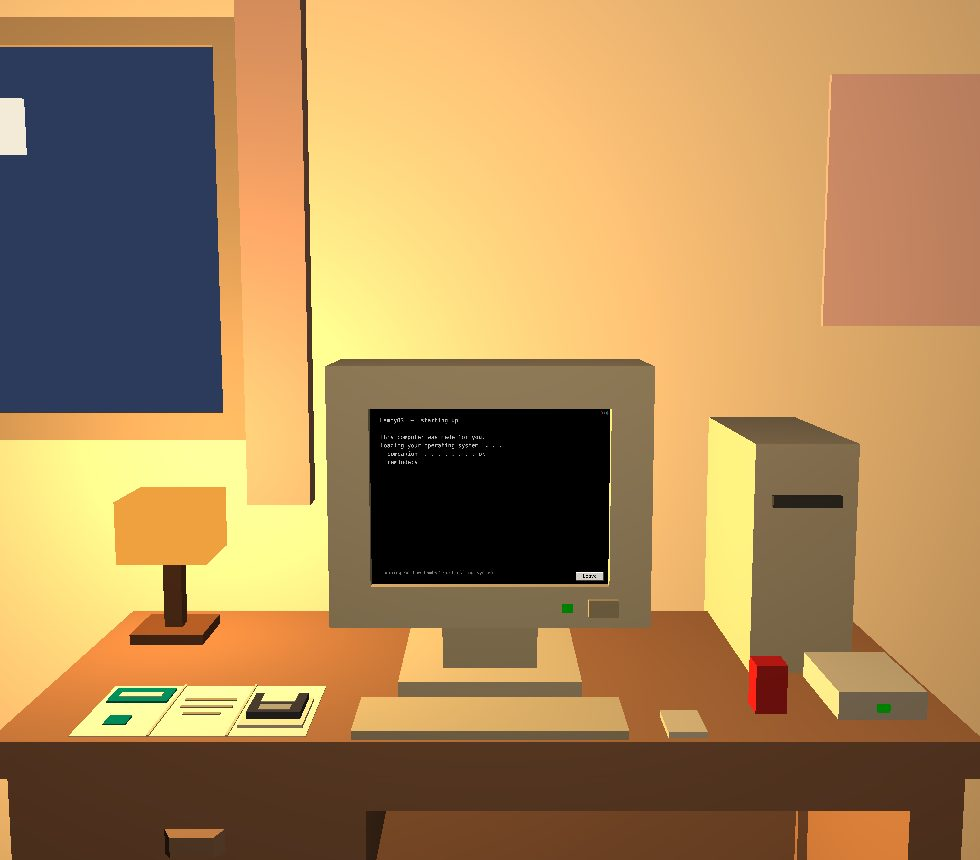
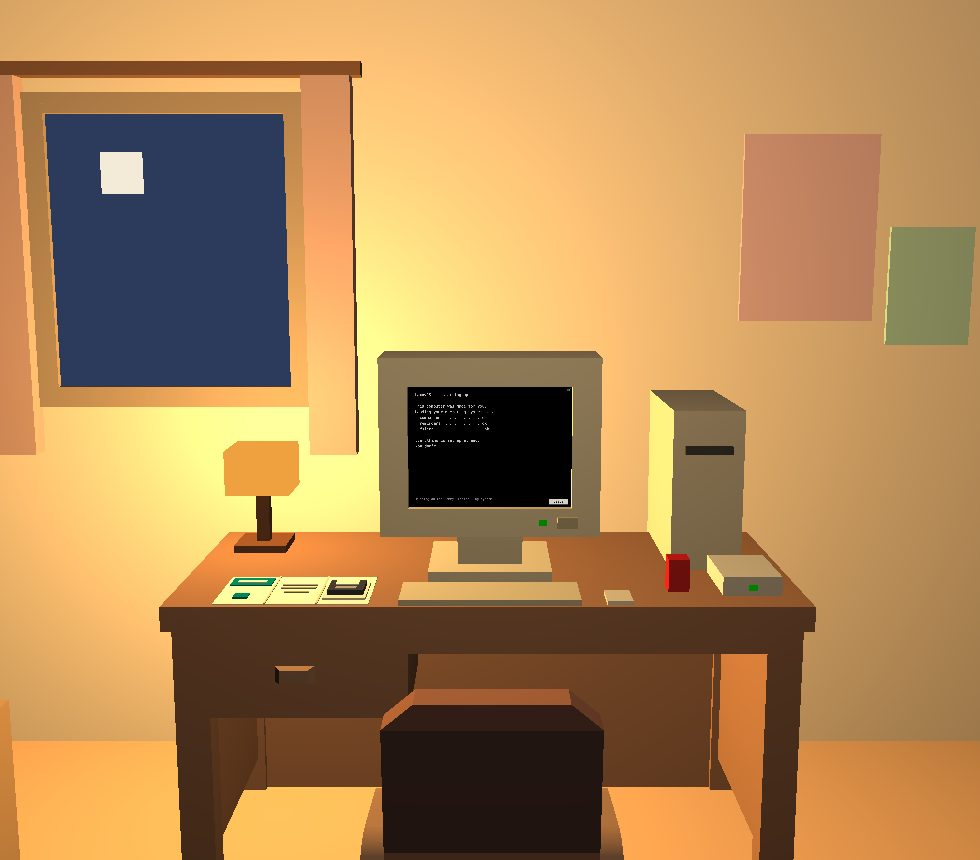
The Close after his first look: lighter CRT, the paragraph fits its column, nothing stands in a card, Room 3's last boxes go

diff --git a/src/room/pointCloud.ts b/src/room/pointCloud.ts
@@ -148,19 +148,37 @@ export function buildPointCloud(app: pc.Application): PointCloud {
    */
   const panelBearings = ((network as { panels?: { era: number }[] }).panels ?? [])
     .map((pn) => ((P.eraBearingDeg as number[])[pn.era - 1] ?? 0) * Math.PI / 180);
-  function clearOfPanels(x: number, y: number, z: number): boolean {
+  /** ⚑ 2026-09-13: the test is ANGULAR now — what the seat sees, not where the
+   *  node is. A card is a rectangle of azimuth × elevation from the origin
+   *  (its half-width and its top and bottom edges at `radius`), and anything
+   *  inside that rectangle at ANY distance stands in front of the text or
+   *  shows through it (the person mesh is one mesh, sorted from its centre,
+   *  so depth does not save the card). Used for nodes and, sampled, for links. */
+  const CARD_AZ = Math.atan2(P.panel.w / 2, P.panel.radius) + 0.04;
+  const CARD_EL_LO = Math.atan2(P.panel.y - P.panel.h / 2, P.panel.radius) - 0.03;
+  const CARD_EL_HI = Math.atan2(P.panel.y + P.panel.h / 2, P.panel.radius) + 0.03;
+  function inCardView(x: number, y: number, z: number): boolean {
     const r = Math.sqrt(x * x + z * z);
-    if (r > P.panel.radius + 0.15) return true;      // behind the card: fine
-    if (Math.abs(y - P.panel.y) > P.panel.h * 0.85) return true; // above or below it
+    const el = Math.atan2(y, r);
+    if (el < CARD_EL_LO || el > CARD_EL_HI) return false;
     const th = Math.atan2(x, -z);
-    const halfSpan = Math.atan2(P.panel.w / 2, P.panel.radius) + 0.05;   // the card's own half-angle, plus a hand
     for (const b of panelBearings) {
       let d = th - b;
       while (d > Math.PI) d -= Math.PI * 2;
       while (d < -Math.PI) d += Math.PI * 2;
-      if (Math.abs(d) < halfSpan) return false;       // either side of the card
+      if (Math.abs(d) < CARD_AZ) return true;
     }
-    return true;
+    return false;
+  }
+  function clearOfPanels(x: number, y: number, z: number): boolean {
+    const r = Math.sqrt(x * x + z * z);
+    // ⚑ 2026-09-13: and nothing LOW AND NEAR — Daniel's monitor lights on the
+    //   desk in front of the seat at the end (closeMonitor.ts), and the cloud
+    //   drifts, so a fixed box would rotate away: a cylinder under the eye line
+    //   within 1.25 m is kept empty in every direction. Sérgio saw a star
+    //   standing in the Restart card.
+    if (r < 1.25 && y < 0.25) return false;
+    return !inCardView(x, y, z);
   }
 
   const personNodes: number[][] = [];
@@ -168,7 +186,7 @@ export function buildPointCloud(app: pc.Application): PointCloud {
     // sum of 3 uniforms ≈ gaussian; core hugs the center — but a clear bubble
     // stays around the seated player so no node looms against the near clip
     let x = 0, y = 0, z = 0;
-    for (let tries = 0; tries < 8; tries++) {
+    for (let tries = 0; tries < 64; tries++) {   // ⚑ 64, not 8: with the cones AND the desk's cylinder kept clear, eight tries left ~2% of nodes wherever the eighth landed
       const r = P.innerClear + (P.coreRadius - P.innerClear) * ((rng() + rng() + rng()) / 3);
       const th = rng() * Math.PI * 2;
       const ph = Math.acos(2 * rng() - 1);
@@ -186,7 +204,7 @@ export function buildPointCloud(app: pc.Application): PointCloud {
   }
   for (let i = 0; i < P.satelliteCount; i++) {
     let x = 0, y = 0, z = 0;
-    for (let tries = 0; tries < 8; tries++) {
+    for (let tries = 0; tries < 64; tries++) {   // ⚑ 64, not 8: with the cones AND the desk's cylinder kept clear, eight tries left ~2% of nodes wherever the eighth landed
       const r = P.coreRadius + (P.outerRadius - P.coreRadius) * Math.pow(rng(), 0.6);
       const th = rng() * Math.PI * 2;
       const ph = Math.acos(2 * rng() - 1);
@@ -287,6 +305,12 @@ export function buildPointCloud(app: pc.Application): PointCloud {
     const d = Math.sqrt(dx * dx + dy * dy + dz * dz);
     if (d < 1e-4) return;
     if (segmentDistToOrigin(a, b) < P.innerClear * 0.85) return; // never through the player
+    // ⚑ 2026-09-13: and never ACROSS a card, from the seat's point of view —
+    //   the frame's hand-down to an era swept across the card beside it
+    for (let k = 0; k <= 16; k++) {
+      const t = k / 16;
+      if (inCardView(a[0] + dx * t, a[1] + dy * t, a[2] + dz * t)) return;
+    }
     const ta = surface(apparatusHalf, a) / d, tb = 1 - surface(apparatusHalf, b) / d;
     if (tb <= ta) return;
     apparatusLinkPositions.push(
@@ -551,7 +575,7 @@ export function buildPointCloud(app: pc.Application): PointCloud {
       panels.forEach((panel, i) => {
         const y0 = i * CELL_H;
         // the plate: the sky's own colour, thickened — a card, not a window
-        pc2.globalAlpha = 0.72;
+        pc2.globalAlpha = 0.9;
         pc2.fillStyle = P.backdrop;
         pc2.fillRect(0, y0 + 8, CELL_W, CELL_H - 16);
         pc2.globalAlpha = 1;
@@ -564,10 +588,19 @@ export function buildPointCloud(app: pc.Application): PointCloud {
         pc2.font = 'bold 54px monospace';
         pc2.fillStyle = P.labelColor;
         pc2.fillText(`${panel.years}  ·  ${panel.title}`, TEXT_X, y0 + 96);
-        pc2.font = `34px ${READING_FACE}`;
+        // ⚑ the paragraph FITS its column (2026-09-13, Sérgio: "the text on top of
+        //   the speculative"): the size steps down until the rows clear the stamp
+        const TOP = 168, BOTTOM = CELL_H - 96;
+        let size = 34;
+        let rows: string[] = [];
+        for (; size >= 24; size -= 2) {
+          pc2.font = `${size}px ${READING_FACE}`;
+          rows = wrap(pc2, panel.text, TEXT_W);
+          if (TOP + rows.length * Math.round(size * 1.3) <= BOTTOM) break;
+        }
+        const lineH = Math.round(size * 1.3);
         pc2.fillStyle = (P.warm as string[])[2];
-        const rows = wrap(pc2, panel.text, TEXT_W);
-        rows.forEach((row, li) => pc2.fillText(row, TEXT_X, y0 + 168 + li * 44));
+        rows.forEach((row, li) => pc2.fillText(row, TEXT_X, y0 + TOP + li * lineH));
         // the dossier status, small, where a card keeps its stamp
         pc2.font = '26px monospace';
         pc2.fillStyle = P.link;

diff --git a/src/room/closeMonitor.ts b/src/room/closeMonitor.ts
@@ -185,7 +185,9 @@ export function mountCloseMonitor(app: pc.Application): CloseMonitor {
       // the glass comes up like a CRT warming: the body catches its light
       glassMat.emissive.set(k, k, k);
       glassMat.update();
-      bodyMat.emissive.set(0.10 * k, 0.09 * k, 0.08 * k);
+      // ⚑ 2026-09-13, Sérgio: "make the CRT body a bit lighter" — 0.10 read as a
+      //   silhouette; this is the beige catching its own glass
+      bodyMat.emissive.set(0.34 * k, 0.31 * k, 0.27 * k);
       bodyMat.update();
     },
     press(x: number, y: number): boolean {

diff --git a/BUILD_LOG.md b/BUILD_LOG.md
@@ -1037,3 +1037,14 @@ dossier status, with each era's cluster beside its card; and the Restart is Dani
 the dark 20 s after the sky settles — the room's own boxes rebuilt as a second monitor
 (`closeMonitor.ts`), the card in ERA1's type (`close_restart.json`): four rooms to go back to, *Start
 again*. The gaze comes down to it, conducted. Leaving the Close puts the room back and jumps settled.
+
+## 2026-09-13 — S138 · His first look at the Close: lighter CRT, the paragraph fits, nothing stands in a card, Room 3's last boxes go
+
+Three notes on two frames. The card's body was a silhouette → the beige catches its glass. Era 4's
+paragraph ran over its own `speculative` stamp → the reading size steps down until the rows clear it.
+"Some collision of elements" → the sky's clearance is angular now (what the seat SEES): no person node
+and no link chord inside any card's rectangle of azimuth × elevation at any distance, and nothing low
+within 1.25 m where Daniel's monitor lights; placement tries 8 → 64 so a rejected node is actually
+re-rolled. "Too many elements on Era-4 with boxes that aren't there" → every primitive-box dressing prop
+in Room 3 struck at r4, the box lamp with them (its light stays as a wash); the plates re-baked from 2.4 m
+behind each seat so the card shows the room, and the baker now holds its pose before shooting.

diff --git a/docs/reinterp/ERA4_STATE_2026-09-12.md b/docs/reinterp/ERA4_STATE_2026-09-12.md
@@ -83,10 +83,12 @@ be smoother… Love the slow turning around."* Ruled: **Restart = Daniel's 1997 
 5. The monitor and the stream are off in the Close (`CLOSE_ROOM_ENTITIES`; `ball.streaming` is false
    once `close()` ran).
 
-⚑ Not done / to tune by eye: the CRT body is nearly black under the `close` rig (0.1 emissive) —
-if it reads as a floating glass, raise it; the panels drift with the cloud (0.9°/s, by design — "love
-the slow turning around"), so after a minute the era-1 card is no longer ahead; the crowd colours and
-the stage slab from §2 are untouched.
+⚑ His first look at the built Close (2026-09-13) and what it changed: the CRT body reads lighter (emissive
+0.34 warm); the paragraph steps its size down until it clears the status stamp; the sky keeps NOTHING in
+any card's angular rectangle at any distance (nodes AND link chords, sampled) and nothing low within 1.25 m
+(the desk); the plates are shot 2.4 m behind each seat (the ROOM, not the instrument); Room 3 lost its
+remaining primitive-box props at r4 (mug, sketchbook, glasses, throw, second pillow, cushion, backpack,
+sneakers, keys, glass, cable, clock, plant, and the box lamp — its light stays). The drift stays, his word.
 
 # 4 · STILL HIS
 The Restart card's wording · the four panels' text (drafts §2 — he asked for "less segmented, claims
